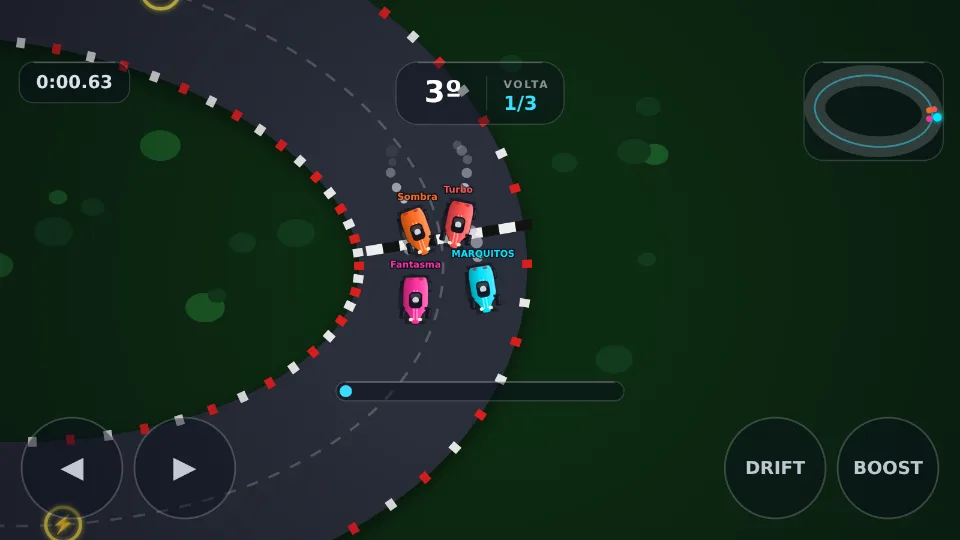
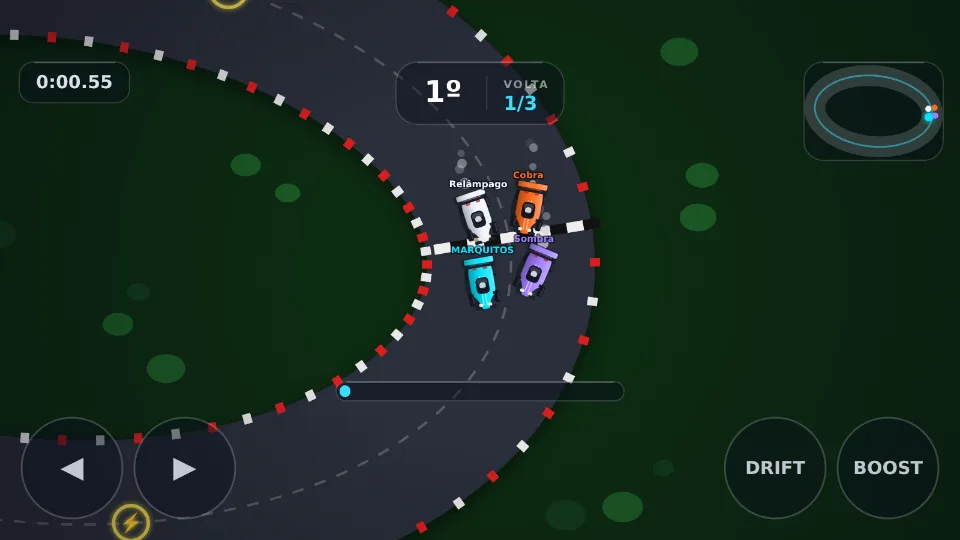
Pixel Racing: aileron traseiro nos carros
A asa de trás era uma barra escura por baixo do corpo, de que só se viam
as pontas. Passa a ser um aileron a sério: dois suportes laterais, um
flap e o plano principal mais largo do que o carro, na cor do carro.

Vai desenhado por cima do corpo, e não por baixo — um aileron está acima
da carroçaria e, visto de cima, é ele que tapa a traseira. Leva a sombra
projetada no capô e o mesmo gradiente de volume do resto do carro; sem
isso lia-se como um autocolante colado à traseira em vez de uma peça
acima dela.

Os farolins recuaram para a frente do aileron: onde estavam, ficavam
tapados por ele. Capa do catálogo regerada.

Claude-Session: https://claude.ai/code/session_014HzxacHYoPonV5Dj8ojYwx

diff --git a/src/MarquitosArcade/wwwroot/games/pixel-racing/js/render.js b/src/MarquitosArcade/wwwroot/games/pixel-racing/js/render.js
@@ -319,10 +319,8 @@ function drawCar(car) {
     drawWheel(-L * 0.28, -hw * 1.02, L, W, 0);
     drawWheel(-L * 0.28, hw * 1.02, L, W, 0);
 
-    // Asas, por baixo do corpo para só assomarem as pontas.
+    // Asa dianteira, por baixo do corpo para só assomarem as pontas.
     ctx.fillStyle = '#1b1f2b';
-    rrect(-L * 0.52, -hw * 1.06, L * 0.1, W * 1.06, 2);
-    ctx.fill();
     rrect(L * 0.44, -hw * 0.86, L * 0.07, W * 0.86, 2);
     ctx.fill();
 
@@ -387,15 +385,54 @@ function drawCar(car) {
     const braking = car.brakeHeld && car.speed > 0;
     ctx.fillStyle = braking ? '#ff4438' : 'rgba(190, 46, 40, 0.8)';
     if (braking) { ctx.shadowColor = '#ff4438'; ctx.shadowBlur = 10; }
-    rrect(-L * 0.45, -W * 0.3, L * 0.05, W * 0.18, 1.5);
+    // À frente do aileron, senão ficavam tapados por ele.
+    rrect(-L * 0.38, -W * 0.3, L * 0.05, W * 0.18, 1.5);
     ctx.fill();
-    rrect(-L * 0.45, W * 0.12, L * 0.05, W * 0.18, 1.5);
+    rrect(-L * 0.38, W * 0.12, L * 0.05, W * 0.18, 1.5);
     ctx.fill();
     ctx.shadowBlur = 0;
+
+    drawRearWing(L, W, car.color);
 
     ctx.restore();
 
     if (car.boostHold && car.boost > 0) drawBoostFlame(car, L, W);
+}
+
+/**
+ * Aileron traseiro: dois suportes laterais, um flap e o plano principal, mais
+ * largo do que o carro. Vai por cima do corpo (um aileron está acima da
+ * carroçaria, e visto de cima tapa a traseira) e leva a mesma sombra e o mesmo
+ * gradiente de volume do resto do carro, senão ler-se-ia como um autocolante.
+ */
+function drawRearWing(L, W, color) {
+    const hw = W / 2;
+    const span = hw * 1.2;
+
+    ctx.fillStyle = 'rgba(6, 9, 20, 0.35)';
+    rrect(-L * 0.58, -span + 3, L * 0.16, span * 2, 2);
+    ctx.fill();
+
+    ctx.fillStyle = '#1b1f2b';
+    rrect(-L * 0.60, -span, L * 0.24, W * 0.1, 2);
+    ctx.fill();
+    rrect(-L * 0.60, span - W * 0.1, L * 0.24, W * 0.1, 2);
+    ctx.fill();
+    rrect(-L * 0.43, -span * 0.84, L * 0.055, span * 1.68, 1.5);
+    ctx.fill();
+
+    rrect(-L * 0.58, -span, L * 0.13, span * 2, 2);
+    ctx.fillStyle = color;
+    ctx.fill();
+    const shade = ctx.createLinearGradient(0, -span, 0, span);
+    shade.addColorStop(0, 'rgba(255, 255, 255, 0.38)');
+    shade.addColorStop(0.45, 'rgba(255, 255, 255, 0.06)');
+    shade.addColorStop(1, 'rgba(0, 0, 0, 0.32)');
+    ctx.fillStyle = shade;
+    ctx.fill();
+    ctx.lineWidth = 1.1;
+    ctx.strokeStyle = 'rgba(6, 9, 20, 0.6)';
+    ctx.stroke();
 }
 
 /** Chama do boost: sai pelo escape, na direção contrária ao andamento. */
